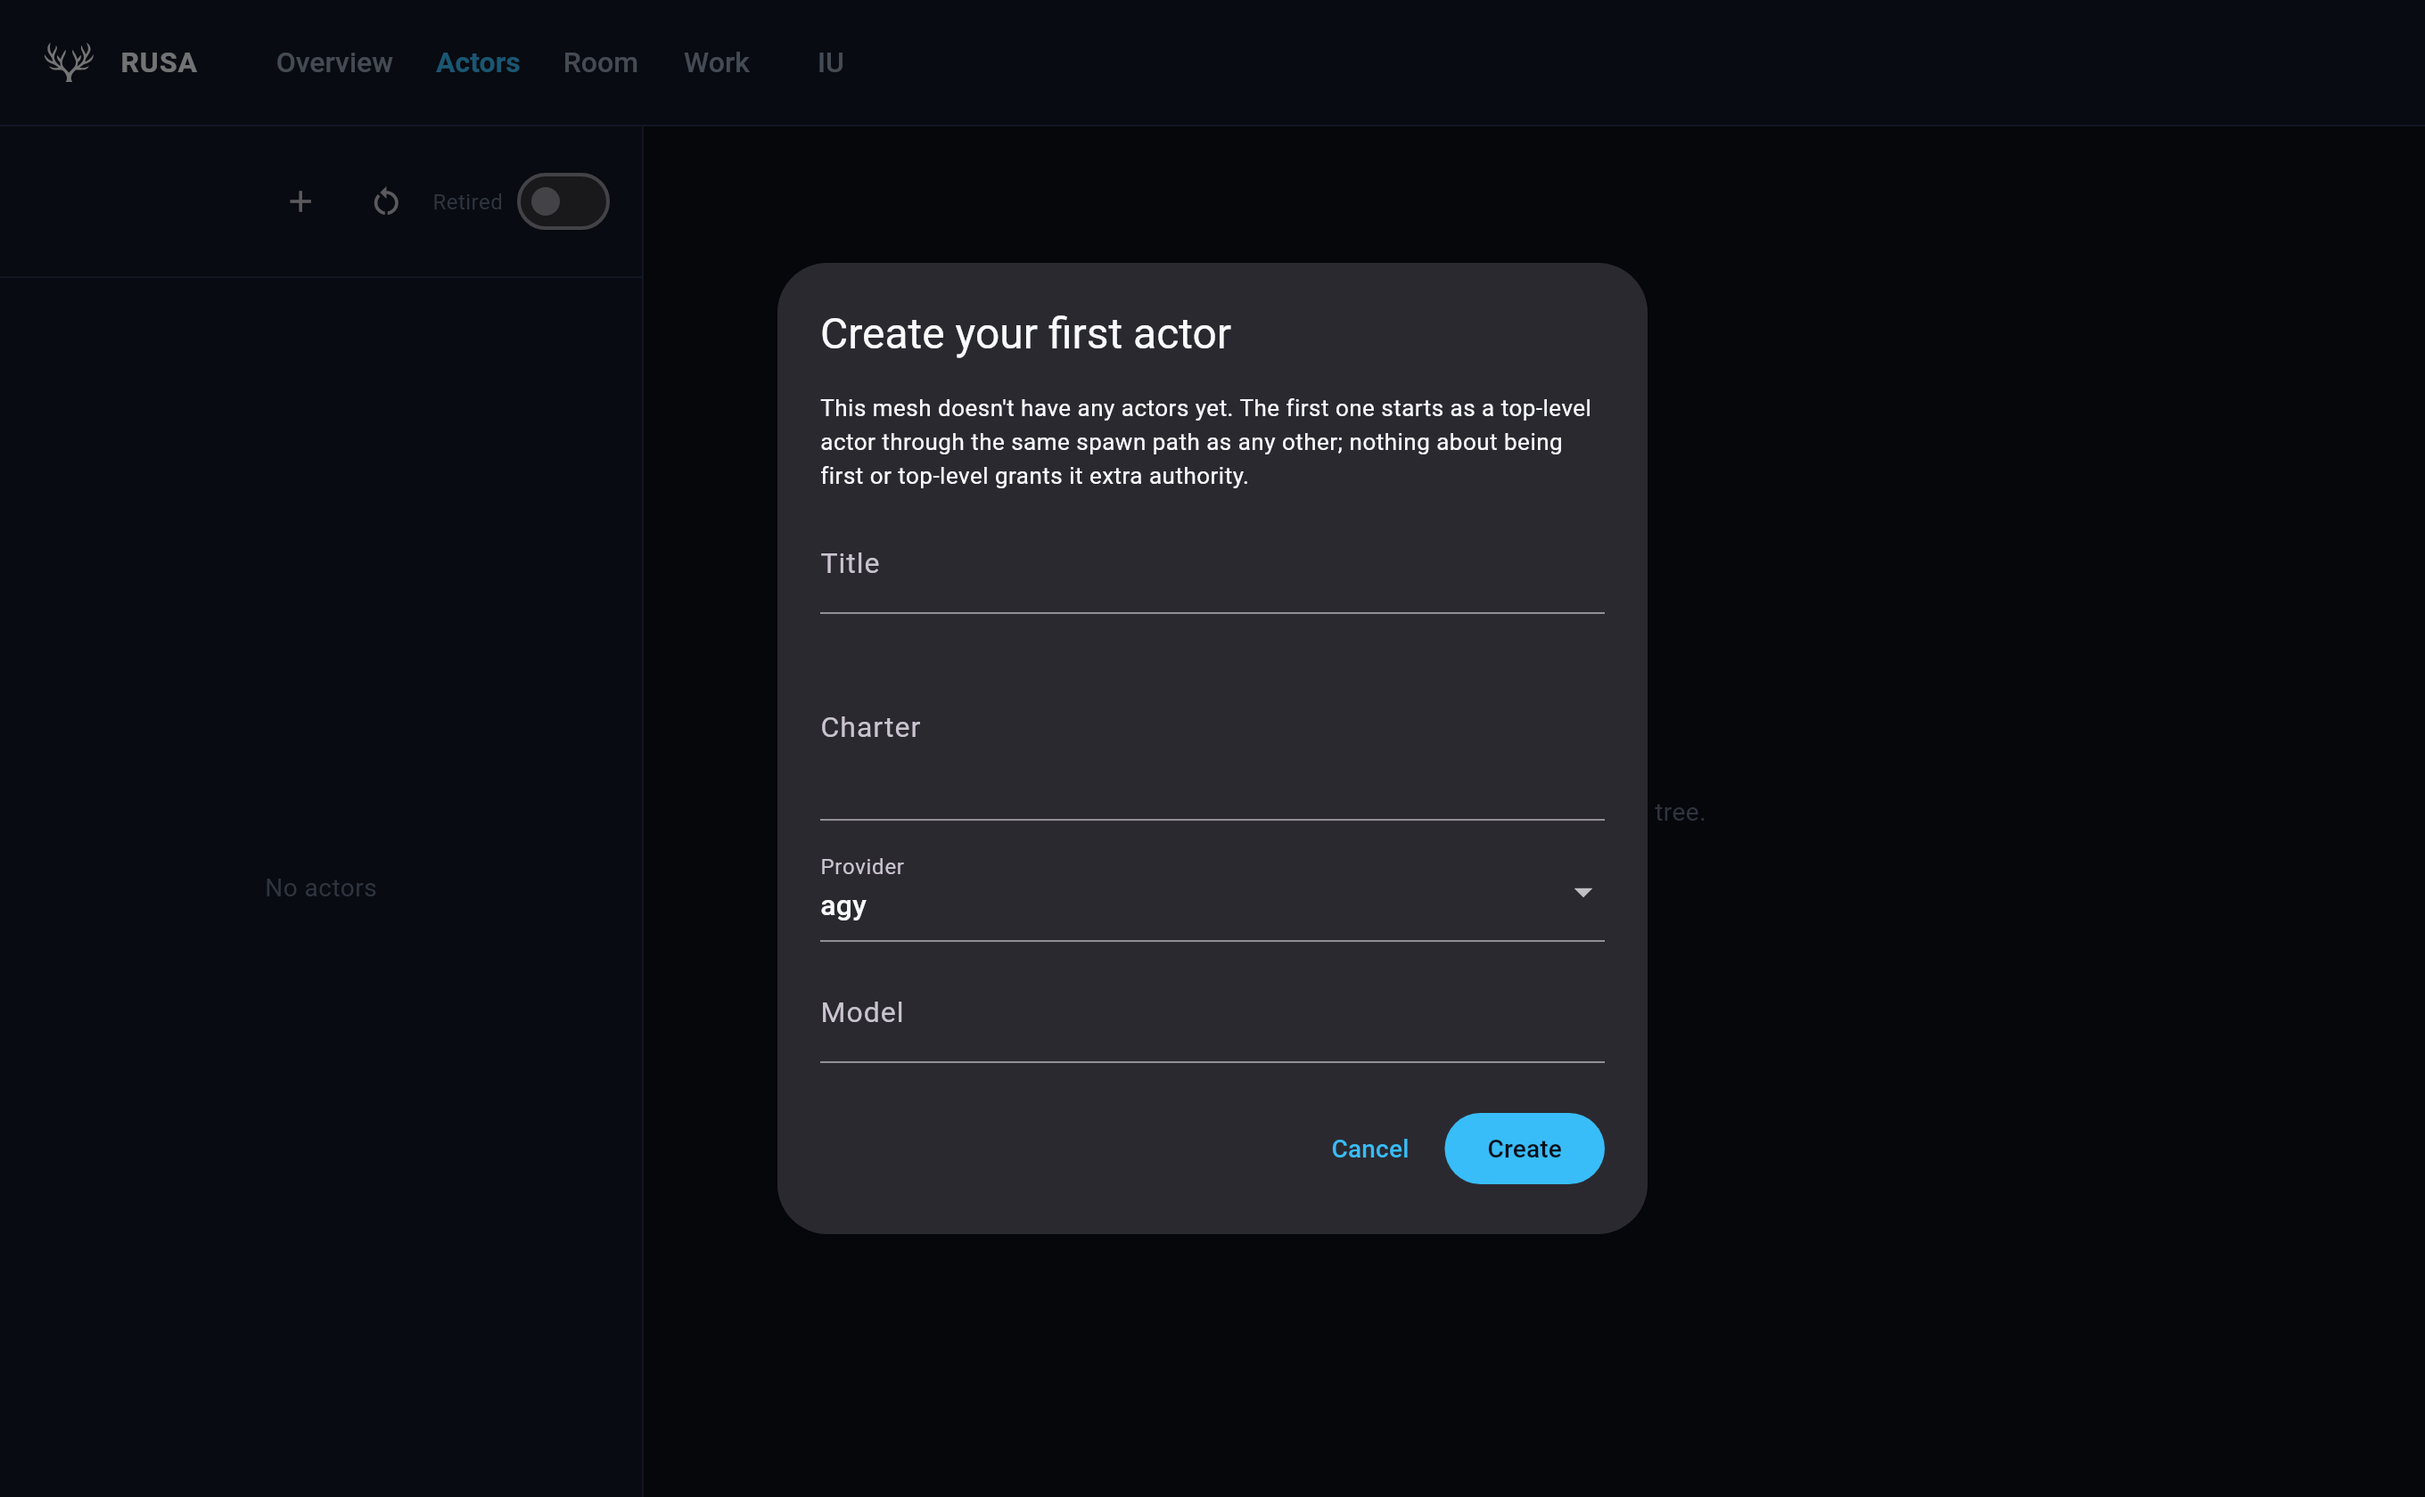
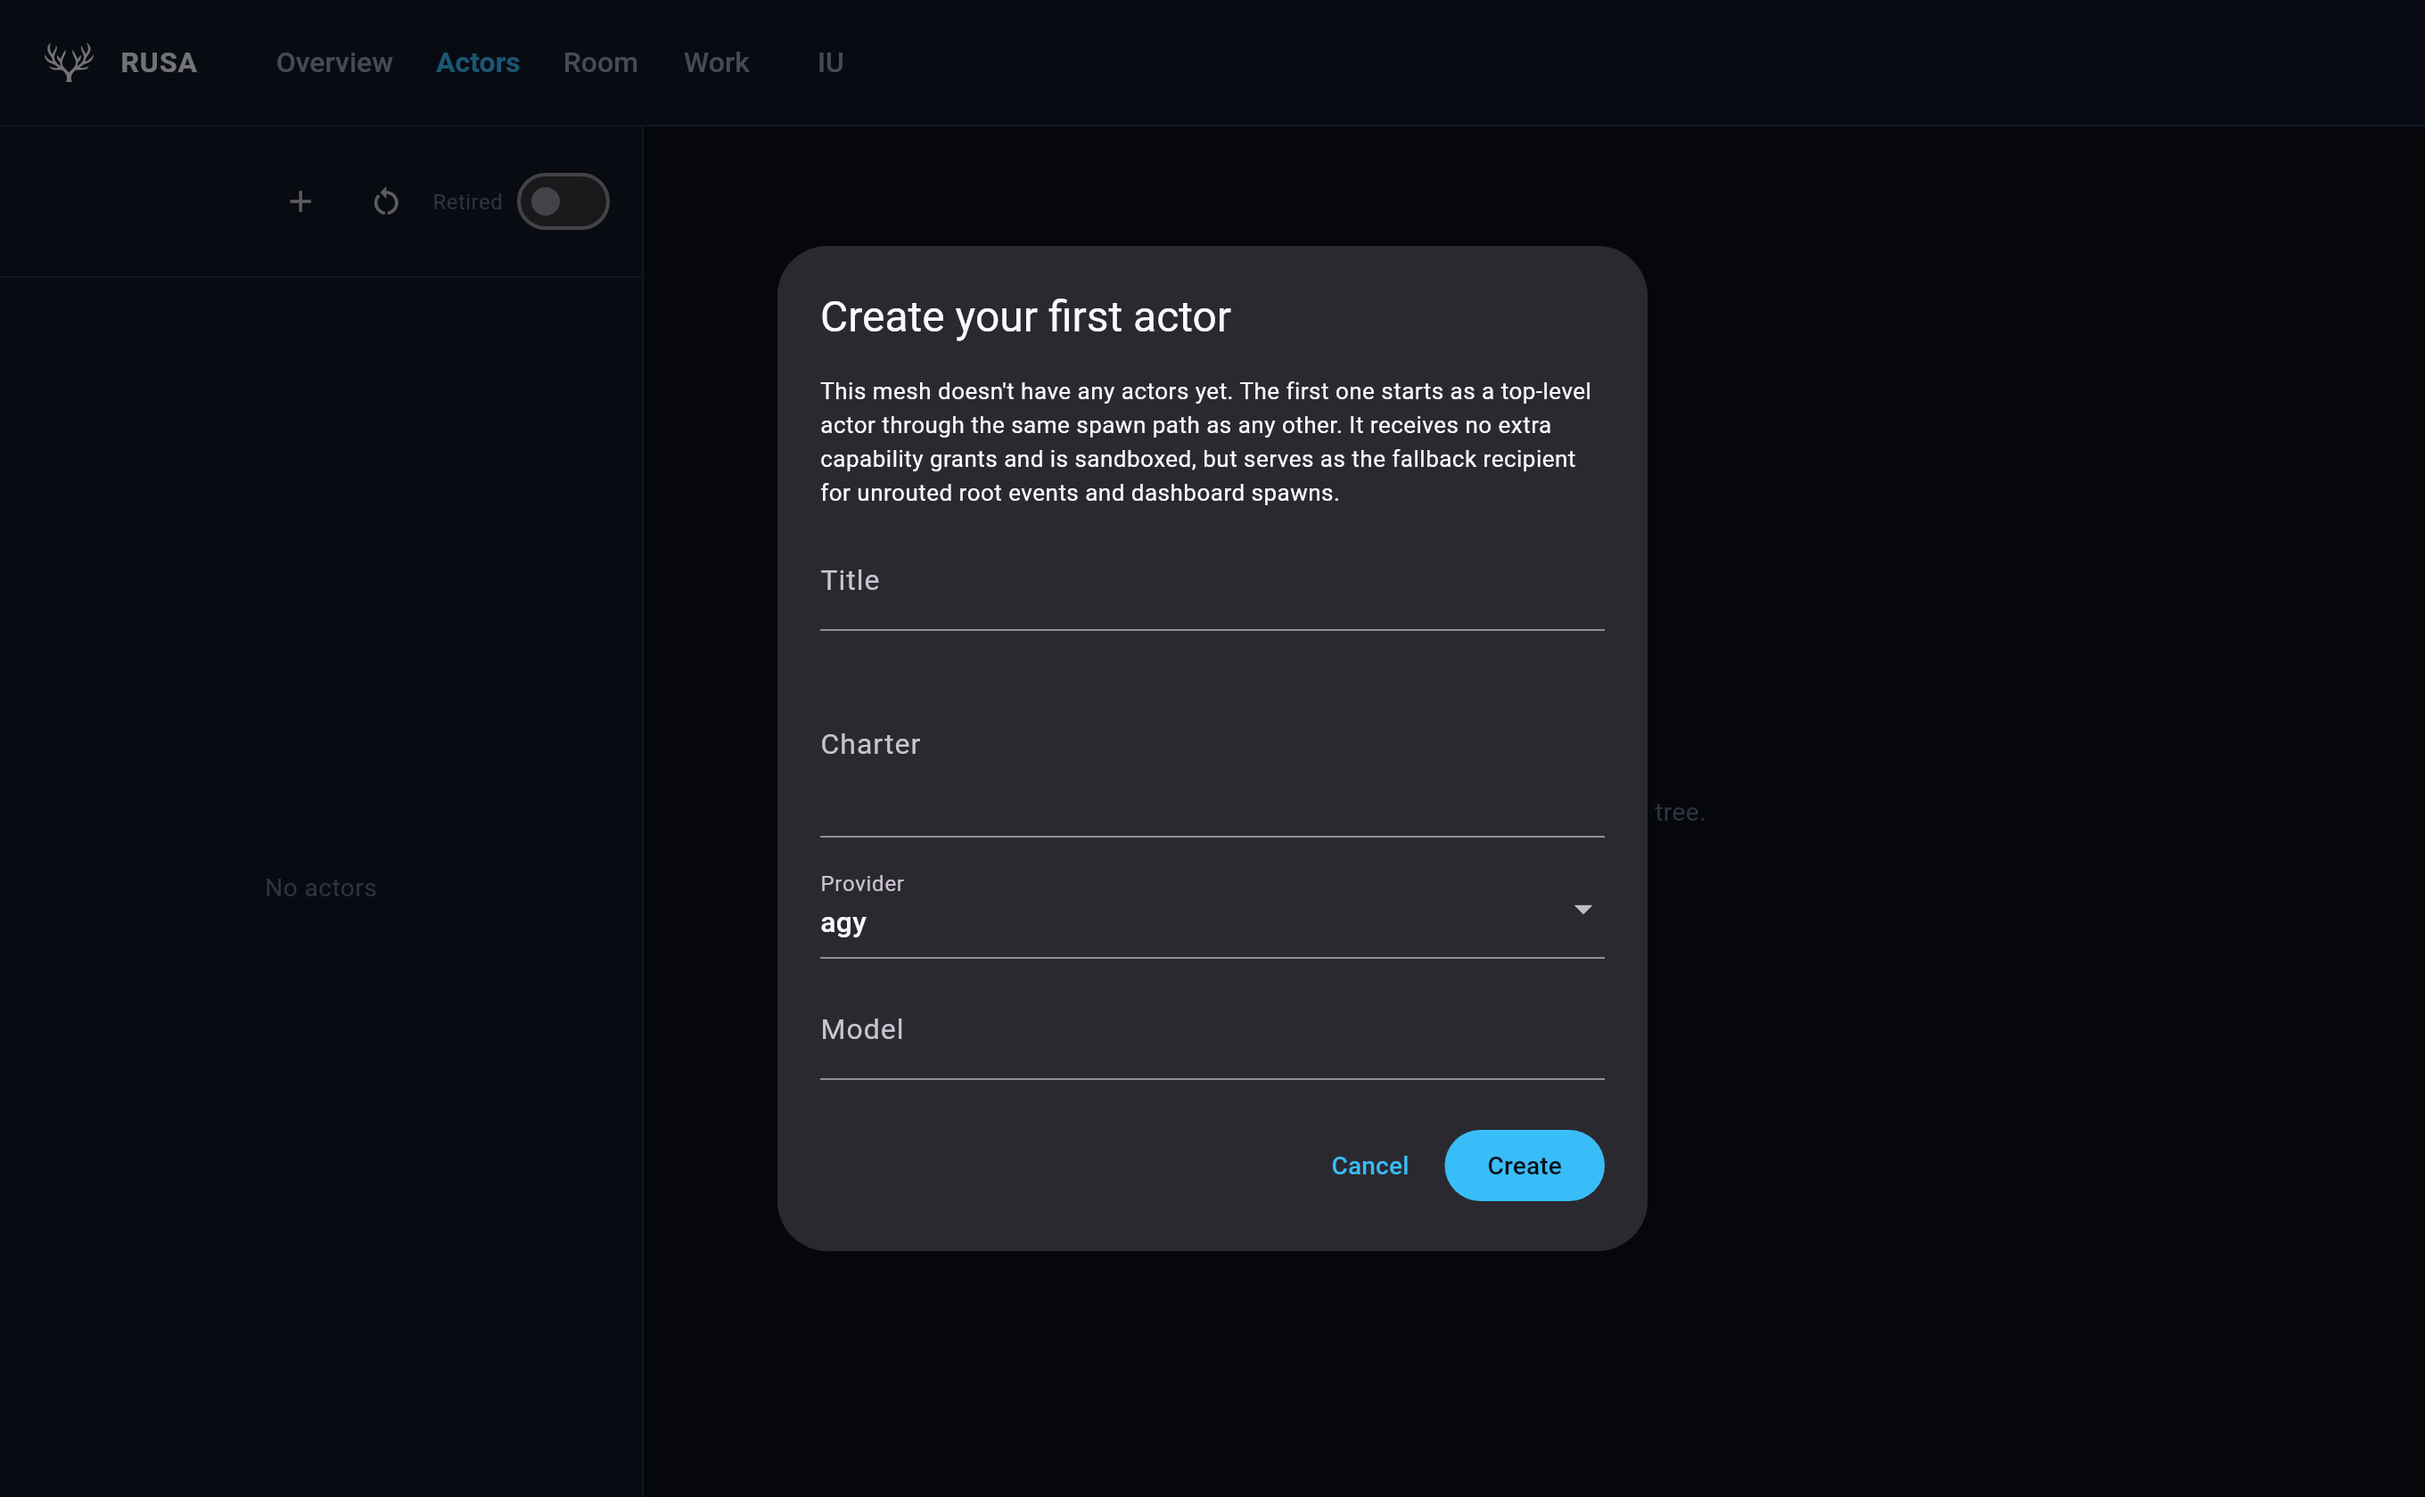
fix(dashboard): unconditional bootstrap latch, copy alignment and submit test (#1260)
- Make the bootstrap modal dismissal latch unconditional on dialog close, dropping the success re-offer race.
- Align dialog intro copy to state that the first actor receives no extra capability grants, is sandboxed, and serves as fallback recipient for unrouted root events and dashboard spawns.
- Drop redundant actorStates subscription in FirstActorBootstrap.
- Fix FakeApi.spawnRootChild in test harness to assign parent: null on rootless empty mesh, allowing screenshot tests to exercise the real form Create path end-to-end.
- Fix stale test header comment and assert session dismissal latch holds on empty re-fetch.

diff --git a/packages/rusa/flutter_dashboard/lib/widgets/first_actor_bootstrap.dart b/packages/rusa/flutter_dashboard/lib/widgets/first_actor_bootstrap.dart
@@ -14,8 +14,9 @@ const String kFirstActorDialogTitle = 'Create your first actor';
 /// position (#465: top-level, unsandboxed and authorized are separate facts).
 const String kFirstActorDialogIntro =
     "This mesh doesn't have any actors yet. The first one starts as a "
-    'top-level actor through the same spawn path as any other; nothing about '
-    'being first or top-level grants it extra authority.';
+    'top-level actor through the same spawn path as any other. It receives '
+    'no extra capability grants and is sandboxed, but serves as the fallback '
+    'recipient for unrouted root events and dashboard spawns.';
 
 /// Empty-mesh first-actor bootstrap (#1260).
 ///
@@ -50,12 +51,10 @@ class _FirstActorBootstrapState extends State<FirstActorBootstrap> {
   @override
   void initState() {
     super.initState();
-    // Both streams are seeded BehaviorSubjects, so these replay their current
-    // values synchronously; the first evaluation is deferred to the first
+    // actorsLoaded is a seeded BehaviorSubject, so this replays its current
+    // value synchronously; the first evaluation is deferred to the first
     // post-frame callback because a dialog cannot be shown during build.
-    _subs
-      ..add(widget.store.actorsLoaded.listen((_) => _maybeOffer()))
-      ..add(widget.store.actorStates.listen((_) => _maybeOffer()));
+    _subs.add(widget.store.actorsLoaded.listen((_) => _maybeOffer()));
     WidgetsBinding.instance.addPostFrameCallback((_) {
       _framePainted = true;
       _maybeOffer();
@@ -69,17 +68,18 @@ class _FirstActorBootstrapState extends State<FirstActorBootstrap> {
     if (!mounted) return;
     _offering = true;
     try {
-      final created = await showSpawnActorDialog(
+      await showSpawnActorDialog(
         context,
         widget.store,
         dialogTitle: kFirstActorDialogTitle,
         intro: kFirstActorDialogIntro,
         submitLabel: 'Create',
       );
-      // A dismissal — cancel, barrier tap, or a failed spawn already reported
-      // as a snackbar — does not nag again; cancel dismisses for the session.
-      // The tree's spawn control remains available.
-      if (!created && mounted) setState(() => _dismissed = true);
+      // Once the bootstrap dialog has closed — whether created, cancelled,
+      // barrier-tapped, or failed — dismiss it unconditionally for the
+      // session so it is never re-offered. The tree's spawn control remains
+      // available.
+      if (mounted) setState(() => _dismissed = true);
     } finally {
       _offering = false;
     }

diff --git a/packages/rusa/flutter_dashboard/test/first_actor_bootstrap_1260_screenshot_test.dart b/packages/rusa/flutter_dashboard/test/first_actor_bootstrap_1260_screenshot_test.dart
@@ -16,7 +16,6 @@ import 'dart:io';
 import 'package:flutter/material.dart';
 import 'package:flutter_test/flutter_test.dart';
 import 'package:rusa_dashboard/dashboard_url.dart';
-import 'package:rusa_dashboard/models.dart';
 import 'package:rusa_dashboard/store.dart';
 import 'package:rusa_dashboard/theme.dart';
 import 'package:rusa_dashboard/widgets/dashboard_body.dart';
@@ -89,26 +88,22 @@ void main() {
           '$_outDir/1260_first_actor_modal_$viewport.png',
         );
 
-        // Close the modal as the real submit does (the submit flow itself is
-        // covered in first_actor_bootstrap_1260_test.dart against this same
-        // harness), then put the store into exactly the state that flow
-        // leaves — the created actor present and selected, no modal — by
-        // feeding the created thread through the ordinary refresh path.
-        await tester.tap(find.widgetWithText(TextButton, 'Cancel'));
+        // Submit the form through the real Create path: enter Charter and
+        // Title, tap Create, and let showSpawnActorDialog invoke
+        // store.spawnRootChild, which refreshes threads and selects the new actor.
+        await tester.enterText(
+          find.widgetWithText(TextFormField, 'Charter'),
+          'Bootstraps the mesh',
+        );
+        await tester.enterText(
+          find.widgetWithText(TextFormField, 'Title'),
+          'Bootstrapper',
+        );
+        await tester.tap(find.widgetWithText(FilledButton, 'Create'));
+        await tester.pump(const Duration(milliseconds: 100));
         await tester.pump(const Duration(milliseconds: 500));
         await tester.pump(const Duration(milliseconds: 500));
         expect(find.text('Create your first actor'), findsNothing);
-
-        api.threadsResult = [
-          makeThread(
-            spawnedId,
-            title: 'Bootstrapper',
-            charterPreview: 'Bootstraps the mesh',
-            runState: RunState.idle,
-          ),
-        ];
-        await store.refreshThreads();
-        store.clickActor(spawnedId);
         await tester.pump(const Duration(milliseconds: 100));
         await tester.pump(const Duration(milliseconds: 100));
 

diff --git a/packages/rusa/flutter_dashboard/test/first_actor_bootstrap_1260_test.dart b/packages/rusa/flutter_dashboard/test/first_actor_bootstrap_1260_test.dart
@@ -5,7 +5,7 @@
 // actors at all, the shared spawn dialog is offered with the first-actor
 // framing; creating the actor goes through the ordinary spawn path
 // (store.spawnRootChild → POST /api/mesh/actors). A non-empty mesh never sees
-// the modal, and a mesh that empties after actors existed offers it again.
+// the modal, and closing or dismissing it never re-offers it in the same session.
 
 import 'package:flutter/material.dart';
 import 'package:flutter_test/flutter_test.dart';
@@ -76,6 +76,14 @@ void main() {
         ));
         expect(find.text('Create your first actor'), findsNothing);
         expect(store.primary.value, 'spawned-child');
+
+        // The dismissal latch holds for the session even if the actor set
+        // becomes empty again: the bootstrap modal is never re-offered.
+        api.threadsResult = [];
+        await store.refreshThreads();
+        await tester.pump(const Duration(milliseconds: 100));
+        await tester.pump(const Duration(milliseconds: 300));
+        expect(find.text('Create your first actor'), findsNothing);
       });
     },
   );

diff --git a/packages/rusa/flutter_dashboard/test/fakes.dart b/packages/rusa/flutter_dashboard/test/fakes.dart
@@ -491,9 +491,16 @@ class FakeApi extends DashboardApi {
       provider: provider,
       model: model,
     ));
+    final hasRoot = threadsResult.any((t) => t.id == 'root');
     threadsResult = [
       ...threadsResult,
-      makeThread(spawnedRootChildId, parent: 'root', title: title),
+      makeThread(
+        spawnedRootChildId,
+        parent: hasRoot ? 'root' : null,
+        title: title,
+        charterPreview: charters[spawnedRootChildId] ?? charter,
+        runState: RunState.idle,
+      ),
     ];
     return spawnedRootChildId;
   }
